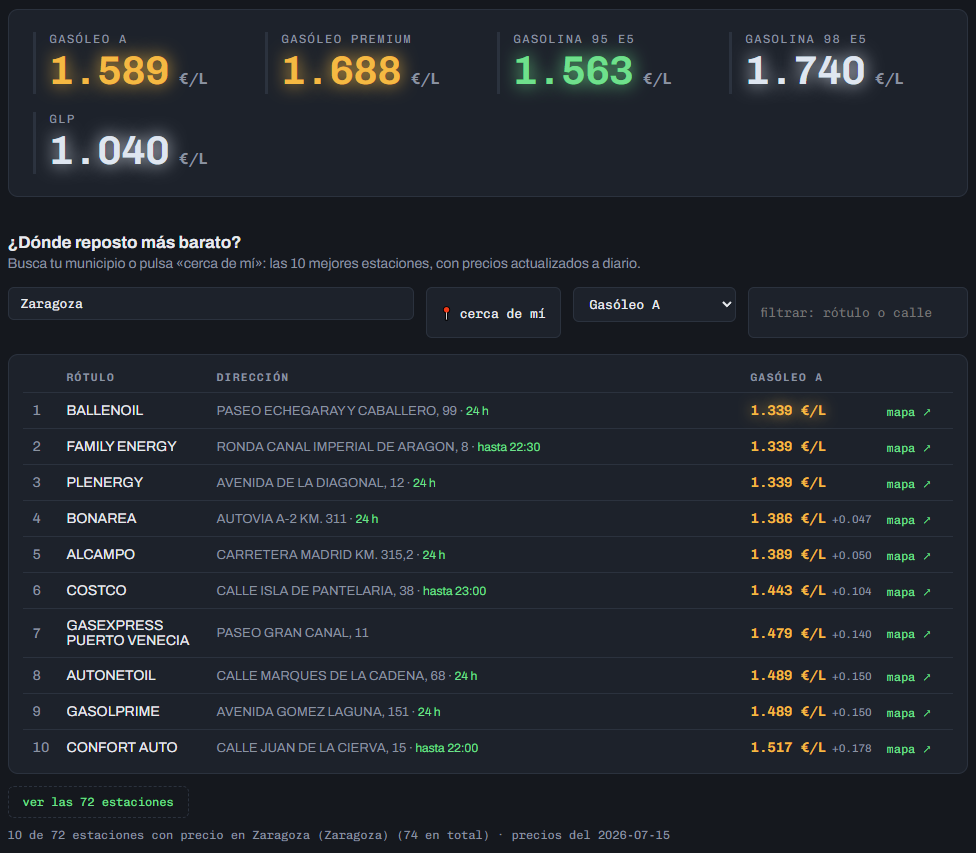
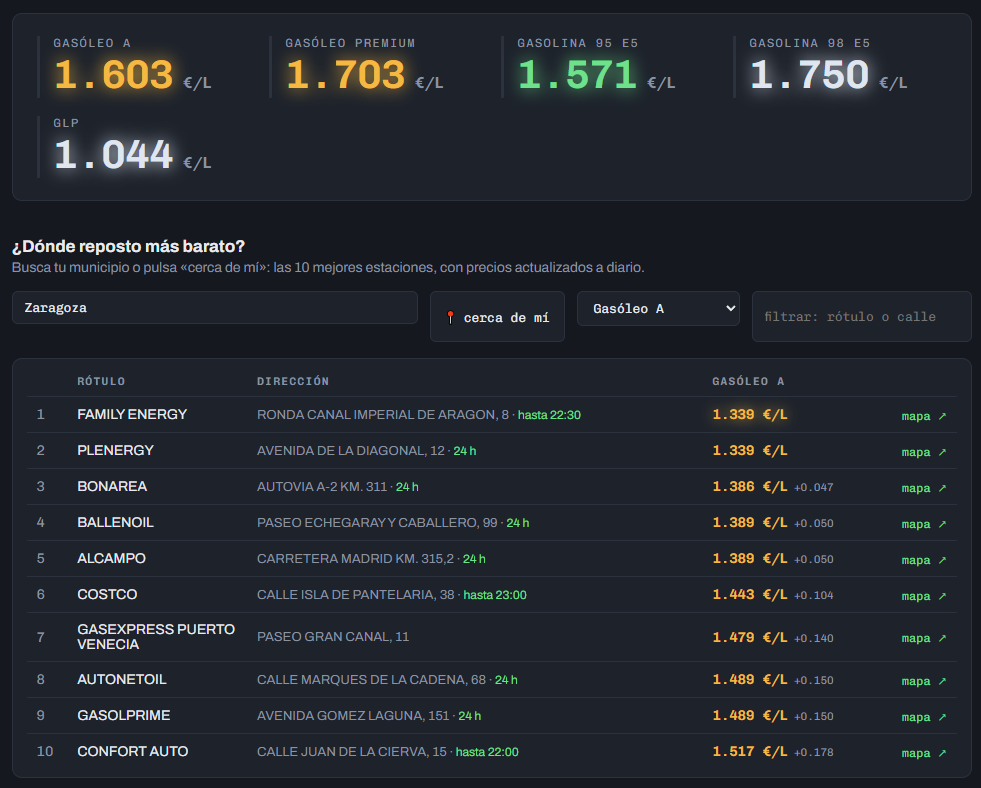
update readme

diff --git a/README.md b/README.md
@@ -14,6 +14,7 @@ GitHub Actions ejecuta el ETL cada mañana y la propia web se actualiza automát
 - Panel con los precios medios del día: gasolina 95 y 98, gasóleo A y premium, GLP.
 - Buscador por municipio (con autocompletado), filtro por rótulo o calle y ranking completo de estaciones.
 - «Cerca de mí»: con tu ubicación, ordena las estaciones por **precio efectivo** (el precio del litro más el combustible del desvío de ida y vuelta) y muestra el ahorro en euros por repostaje frente a tu estación más cercana. Ir a 8 km a ahorrar una milésima no compensa, y la tabla lo refleja.
+- Tarjeta de **mejor opción**: la recomendación con la cuenta completa — coste del surtidor, coste del desvío, ahorro neto y a partir de cuántos litros compensa desplazarse — comparada con tu estación abierta más cercana. El desplegable «¿cómo se calcula?» enseña las fórmulas con los números del caso y permite ajustar el consumo del vehículo (se recuerda).
 - Mapa con las estaciones coloreadas por precio (verde barata, rojiza cara) y estado de apertura: abierta, hasta qué hora, o cerrada ahora.
 - Evolución del precio medio nacional (histórico desde julio de 2026) y comparativa de provincias
 - Los enlaces llevan el municipio (`#teruel-teruel`), y la web recuerda tu municipio, producto y litros entre visitas.
@@ -53,7 +54,8 @@ etl/fetch_prices.py ──► descarga API ──► limpieza (pandas)
 - **Descarga con dos clientes.** La API rechaza a ratos las conexiones desde los runners de GitHub (corta el handshake TLS), así que la descarga reintenta alternando `requests` y `curl`, que presentan huellas TLS distintas.
 - **Doble cron idempotente.** GitHub descarta a veces los workflows programados en horas de carga; por eso hay una segunda cita a mediodía. Si corren ambas, la segunda simplemente reemplaza los datos del día — el histórico anexa por fecha y no duplica.
 - **Horarios: mejor callar que mentir.** El estado abierta/cerrada se calcula interpretando el campo oficial de horario (`L-D: 24H`, `L-V: 06:00-22:00; S-D: ...`, rangos que cruzan la medianoche). Los horarios ambiguos —un solo día declarado, formatos raros— no muestran estado.
-- **Precio efectivo.** El orden de «cerca de mí» reparte el coste del desvío (6,5 l/100 km, ida y vuelta) entre los litros del repostaje. Los supuestos están a la vista en la propia web.
+- **Precio efectivo.** El orden de «cerca de mí» reparte el coste del desvío (6,5 l/100 km por defecto, ida y vuelta, con distancias en línea recta estimadas) entre los litros del repostaje. Los supuestos están a la vista en la propia web y el consumo es ajustable.
+- **Referencia del ahorro.** El ahorro se compara con la estación abierta más cercana que tenga precio del producto — la que usarías por defecto. Si a esa hora está todo cerrado, se usa la más cercana sin más.
 
 ## Puesta en marcha
 